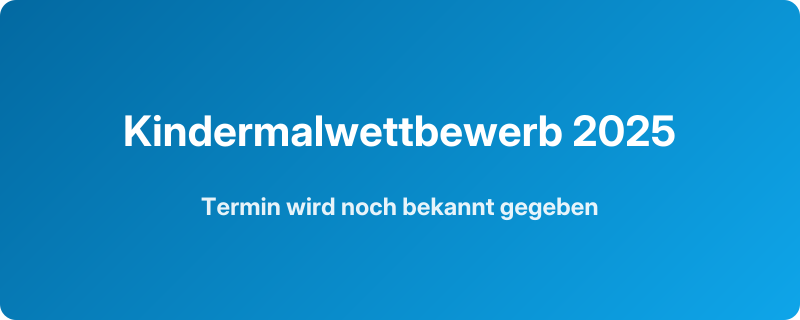
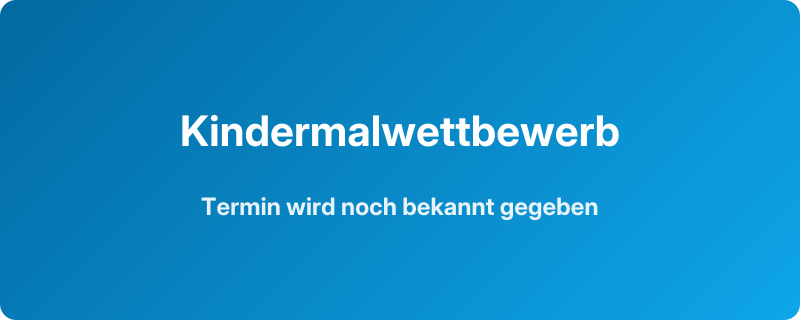
18-10-2025_02

Changed region(s): [[0.1562, 0.3438, 0.8438, 0.4688]]

diff --git a/src/data/events.raw.js b/src/data/events.raw.js
@@ -18,6 +18,7 @@ export const events = [
     highlighted: false,
     registerAvailable: false
   },
+  //--------------------- Upcoming Events ---------------------//
   // children's painting competition 2025
   {
     slug: "childrens-painting-competition-2025",
@@ -31,13 +32,12 @@ export const events = [
     speakers: [],
     attendance: null,
     gallery: [],
-    available: false,
+    available: true,
     past: false,
     highlighted: true,
     registerAvailable: true,
     registrationLink: "https://forms.gle/example"
   },
-  //--------------------- Upcoming Events ---------------------//
   // cooking class for sisters 2025
   {
     slug: "charity-week-cooking-class-2025",
